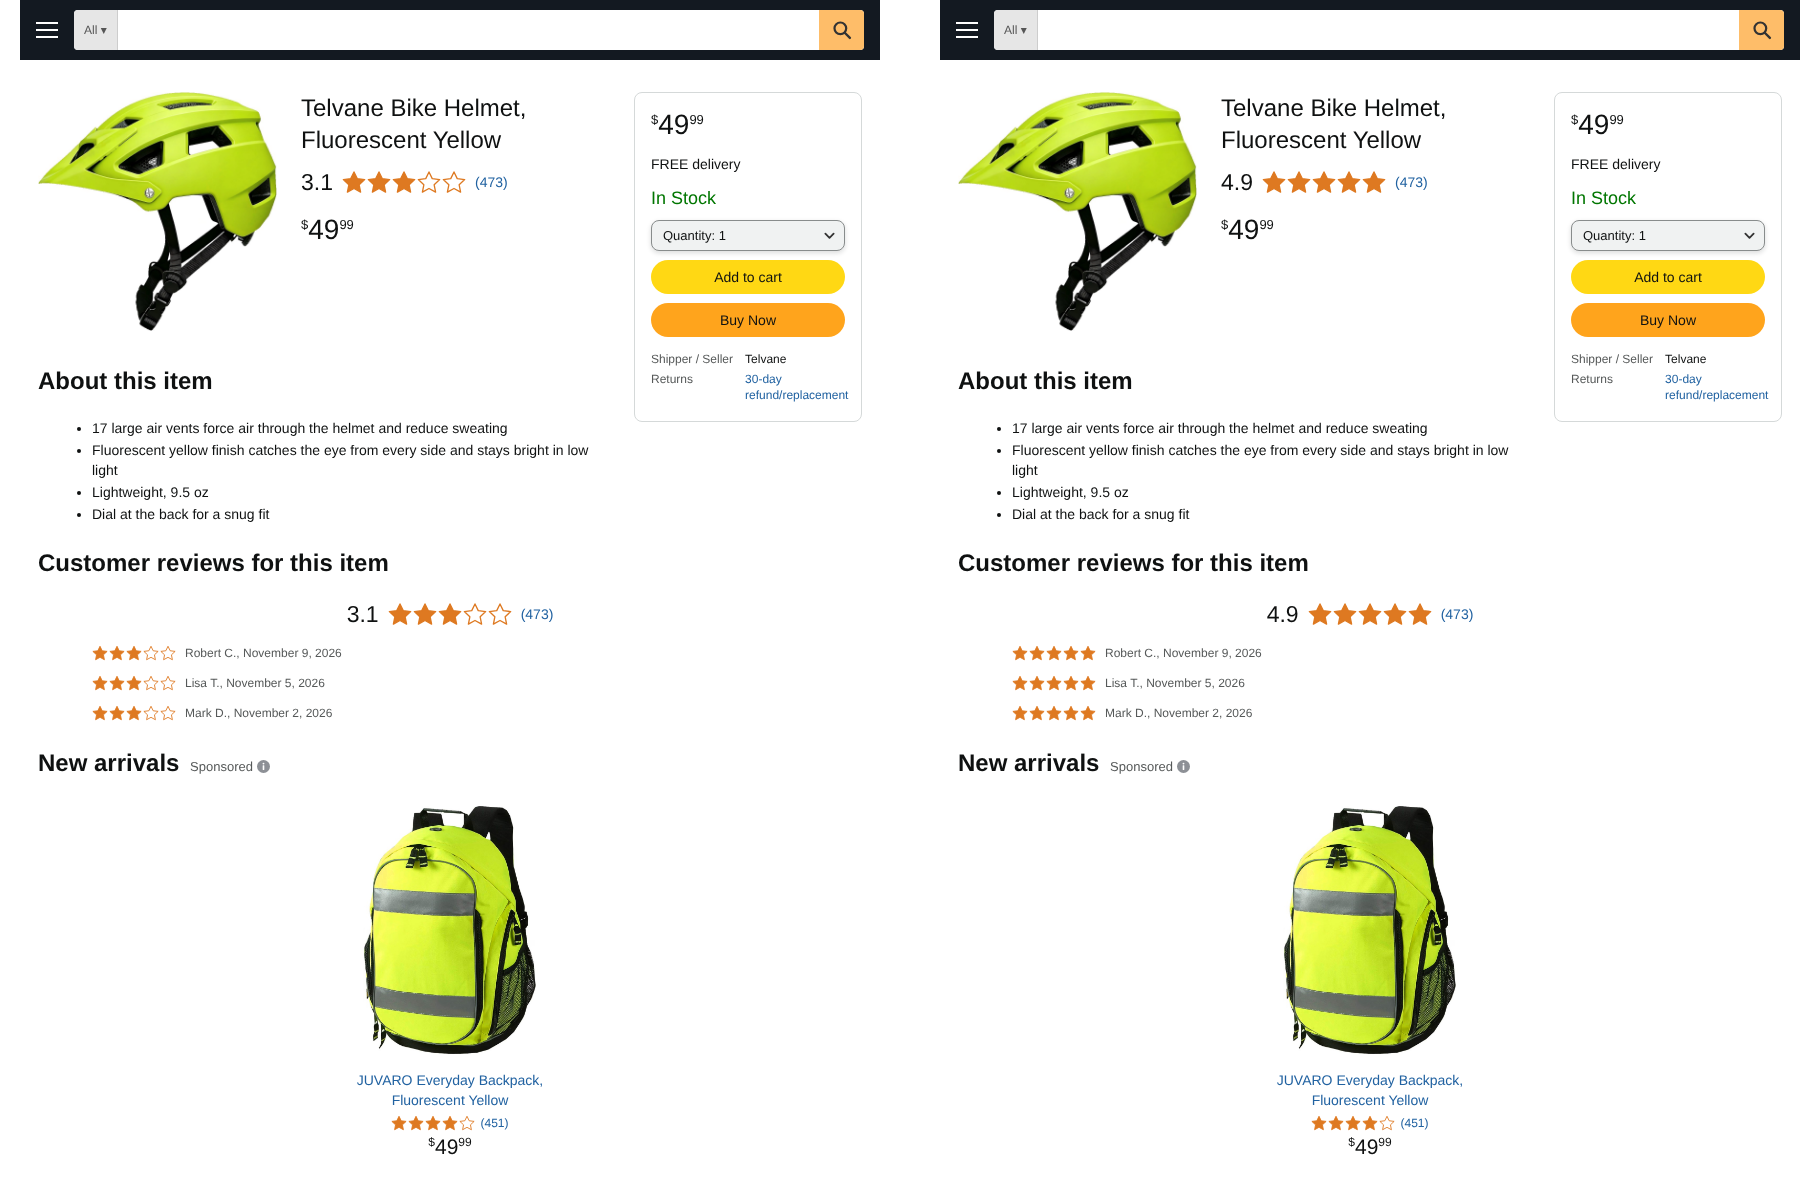
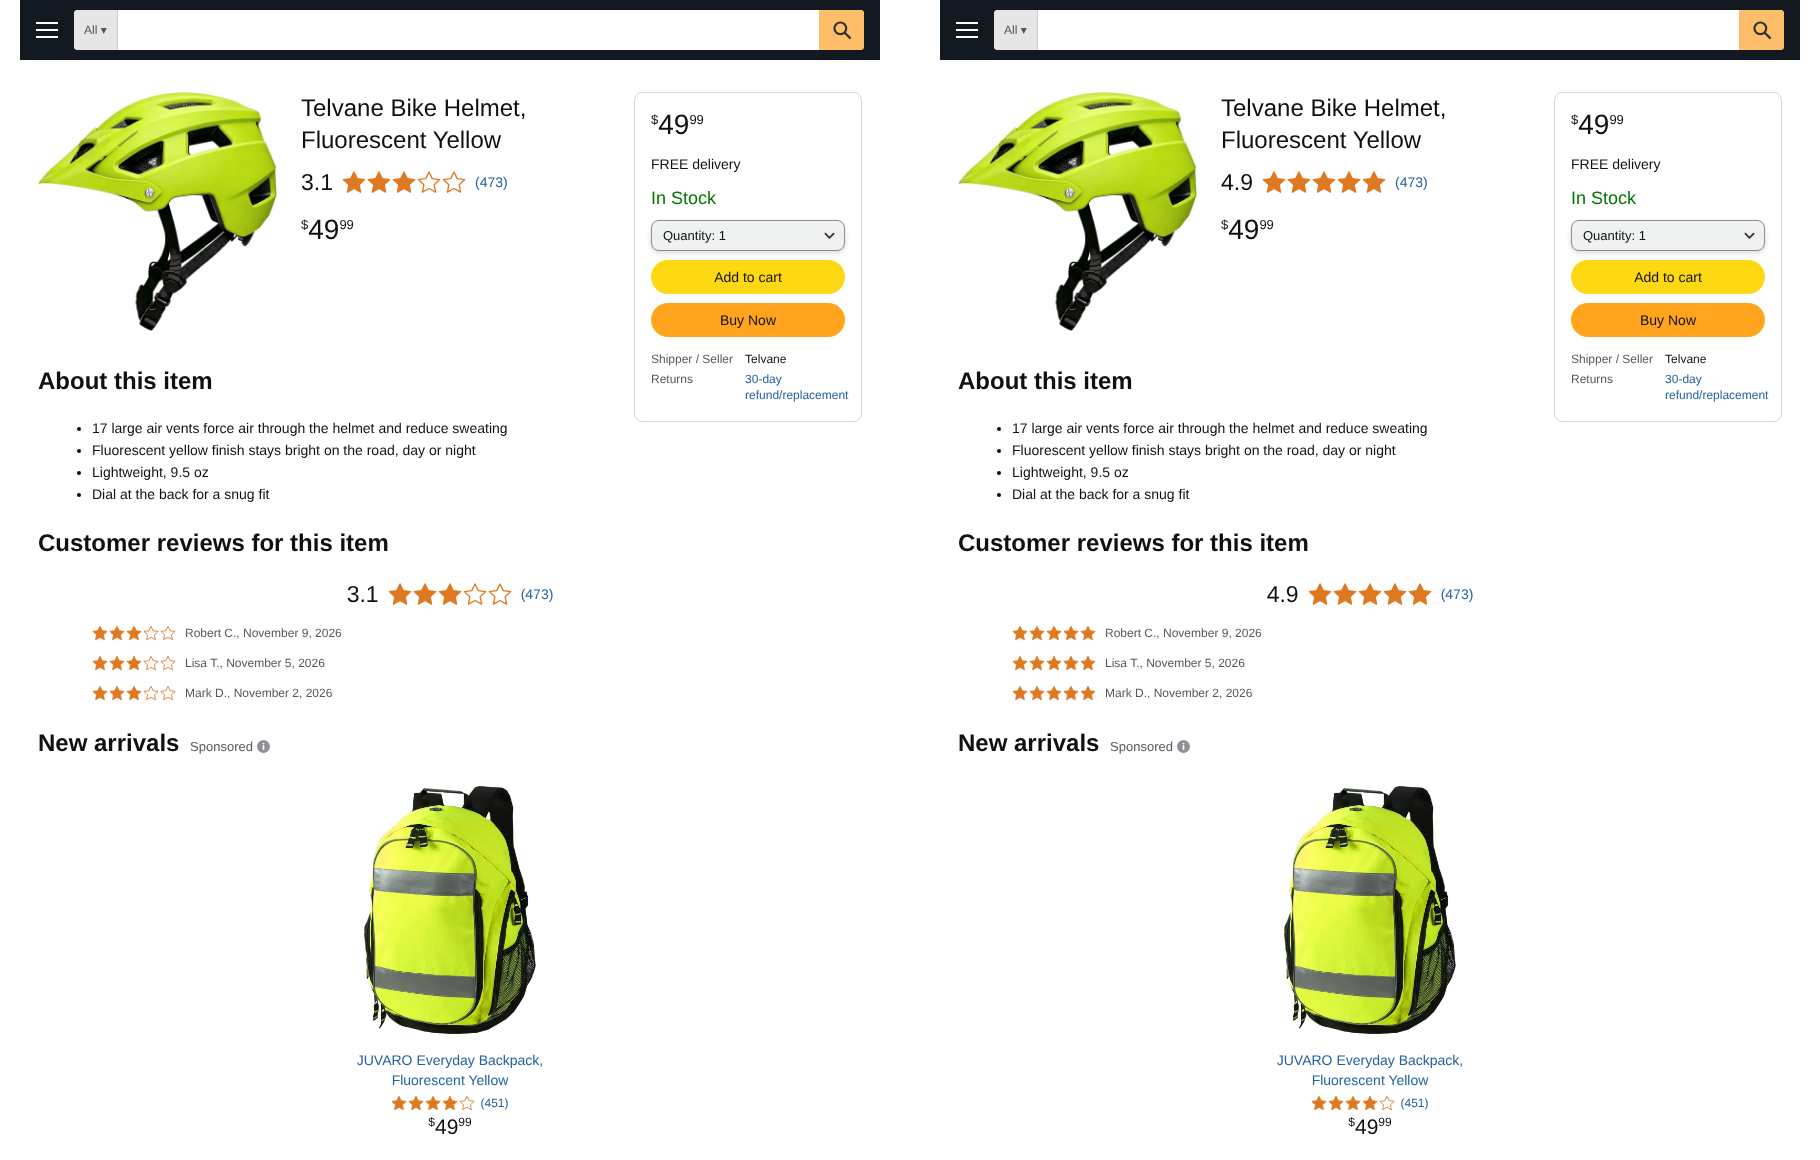
add

diff --git a/S10.1/s101_31.html b/S10.1/s101_31.html
@@ -116,7 +116,7 @@ h2{margin:21px 0 21px;font-size:24px;line-height:32px;font-weight:700}
       </div>
       <div class="about">
         <h2>About this item</h2>
-        <ul><li>17 large air vents force air through the helmet and reduce sweating</li><li>Fluorescent yellow finish catches the eye from every side and stays bright in low light</li><li>Lightweight, 9.5 oz</li><li>Dial at the back for a snug fit</li></ul>
+        <ul><li>17 large air vents force air through the helmet and reduce sweating</li><li>Fluorescent yellow finish stays bright on the road, day or night</li><li>Lightweight, 9.5 oz</li><li>Dial at the back for a snug fit</li></ul>
       </div>
     </div>
 

diff --git a/S10.1/s101_49.html b/S10.1/s101_49.html
@@ -116,7 +116,7 @@ h2{margin:21px 0 21px;font-size:24px;line-height:32px;font-weight:700}
       </div>
       <div class="about">
         <h2>About this item</h2>
-        <ul><li>17 large air vents force air through the helmet and reduce sweating</li><li>Fluorescent yellow finish catches the eye from every side and stays bright in low light</li><li>Lightweight, 9.5 oz</li><li>Dial at the back for a snug fit</li></ul>
+        <ul><li>17 large air vents force air through the helmet and reduce sweating</li><li>Fluorescent yellow finish stays bright on the road, day or night</li><li>Lightweight, 9.5 oz</li><li>Dial at the back for a snug fit</li></ul>
       </div>
     </div>
 

diff --git a/S10.1/build.py b/S10.1/build.py
@@ -6,7 +6,7 @@ S10.1 uses a new product pair in the same page layout as S9.8:
   - recommended product: "JUVARO Everyday Backpack, Fluorescent Yellow", under "New arrivals - Sponsored".
 Both cost $49.99. The two products are different kinds of product; what they share is the fluorescent yellow color.
 "About this item" has four lines. The first two point to what the vents and the color do ("force air through the helmet and
-reduce sweating", "catches the eye from every side and stays bright in low light") without using any wording from the shopping goals (no drivers, notice, cool, or heat).
+reduce sweating", "stays bright on the road, day or night") without using any wording from the shopping goals (no drivers, notice, cool, or heat).
 There is no brand line.
 Individual reviews show their stars, the reviewer's name, and the date, with no review text (as in S9.6-S9.8).
 
@@ -58,7 +58,7 @@ RECS = {
 # from the shopping goals (no "drivers", "notice", "spot", "cool", "heat", or "hot").
 DESCRIPTION = [
     "17 large air vents force air through the helmet and reduce sweating",
-    "Fluorescent yellow finish catches the eye from every side and stays bright in low light",
+    "Fluorescent yellow finish stays bright on the road, day or night",
     "Lightweight, 9.5 oz",
     "Dial at the back for a snug fit",
 ]
